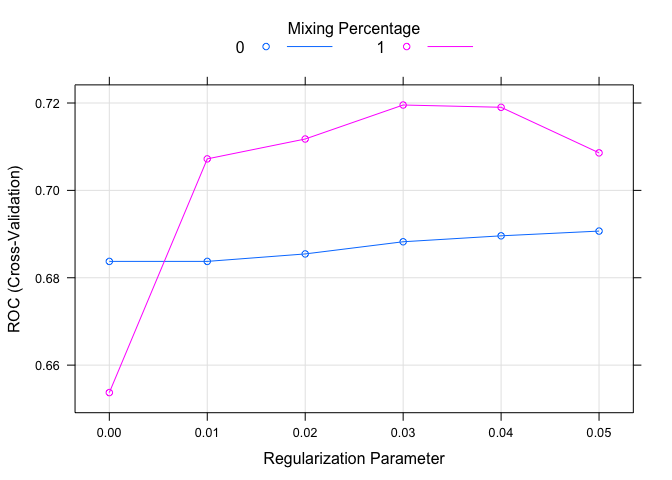
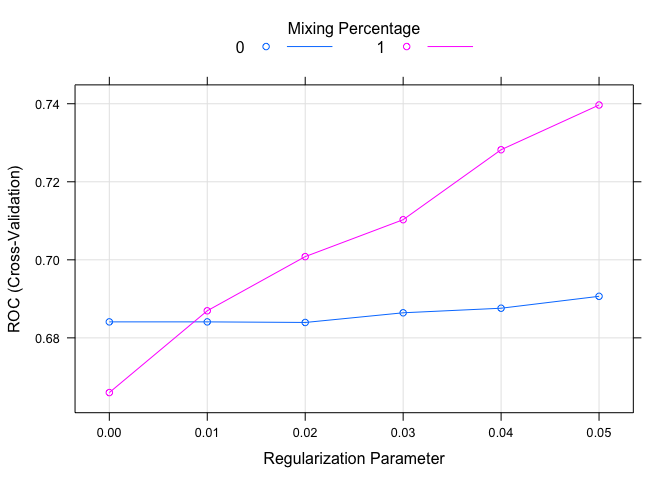
6-25

diff --git a/README.md b/README.md
@@ -39,7 +39,7 @@ library(data.table)
 
 ``` r
 rm(list = ls())
-setwd('~/super_heroes')
+setwd('~/marvel_or_dc')
 
 hero_info = read.csv('heroes_information.csv') %>% 
   mutate(Publisher = factor(Publisher),
@@ -78,6 +78,13 @@ mycontrol = trainControl(method = 'cv',
                          classProbs = T,
                          summaryFunction = twoClassSummary,
                          verboseIter = TRUE)
+
+training_indices = createDataPartition(y = marvel_dc$Publisher,
+                                       p = .7,
+                                       list = FALSE)
+
+training = marvel_dc[training_indices,]
+testing = marvel_dc[-training_indices,]
 ```
 
 Generalized Linear Model
@@ -89,7 +96,7 @@ Ridge regression is the best performing model (alpha = 1) with a lambda value of
 
 ``` r
 glmnet_model = train(Publisher ~ .,
-                     marvel_dc %>% select(-name),
+                     training %>% select(-name),
                      method = 'glmnet',
                      trControl = mycontrol,
                      tuneGrid = expand.grid(alpha = 0:1, 
@@ -141,7 +148,7 @@ glmnet_model = train(Publisher ~ .,
     ## - Fold10: alpha=1, lambda=0.05 
     ## Aggregating results
     ## Selecting tuning parameters
-    ## Fitting alpha = 1, lambda = 0.03 on full training set
+    ## Fitting alpha = 1, lambda = 0.05 on full training set
 
 ``` r
 plot(glmnet_model)
@@ -154,45 +161,45 @@ Testing the Results of the Model
 
 Our model tends to err on the side of predicting a super hero to belong to Marvel comics over DC comics.
 
--   Sensitivity - 29% - percent of DC super heroes correctly predicted to be DC comics
+-   Sensitivity - 31% - percent of DC super heroes correctly predicted to be DC comics
 
--   Specificity - 96% - percent of Marvel super heroes correctly predicted to belong to Marvel Comics
+-   Specificity - 93% - percent of Marvel super heroes correctly predicted to belong to Marvel Comics
 
--   Pos Pred value - 82% - percent of predicted DC super heroes that actually belonged to DC
+-   Pos Pred value - 72% - percent of predicted DC super heroes that actually belonged to DC
 
 -   Neg Pred Value - 70% - percent of predicted marvel heroes that actually belonged to Marvel.
 
-If our model predicts that a given super hero belongs to DC comics, there's a pretty good likely hood that it is actually the case.
+Model often misclassifies heroes as belonging to the Marvel universe when they are DC. In the case where a hero is predicted to be a DC super hero, that is most often the case.
 
-If our model predicts that a super hero belongs to Marvel, there is a higher chance of misclassification error.
+This tells us that there are some super powers which are more exclusive to the DC universise whereas the ones mostly found in the Marvel universe can be found in DC's as well.
 
 ``` r
-confusionMatrix(predict(glmnet_model, marvel_dc), marvel_dc$Publisher)
+confusionMatrix(predict(glmnet_model, testing), testing$Publisher)
 ```
 
     ## Confusion Matrix and Statistics
     ## 
     ##           Reference
-    ## Prediction  dc marvel
-    ##     dc      69     12
-    ##     marvel 126    326
+    ## Prediction dc marvel
+    ##     dc      9      8
+    ##     marvel 49     93
     ##                                           
-    ##                Accuracy : 0.7411          
-    ##                  95% CI : (0.7017, 0.7778)
-    ##     No Information Rate : 0.6341          
-    ##     P-Value [Acc > NIR] : 9.479e-08       
+    ##                Accuracy : 0.6415          
+    ##                  95% CI : (0.5617, 0.7159)
+    ##     No Information Rate : 0.6352          
+    ##     P-Value [Acc > NIR] : 0.4701          
     ##                                           
-    ##                   Kappa : 0.3633          
-    ##  Mcnemar's Test P-Value : < 2.2e-16       
+    ##                   Kappa : 0.0894          
+    ##  Mcnemar's Test P-Value : 1.17e-07        
     ##                                           
-    ##             Sensitivity : 0.3538          
-    ##             Specificity : 0.9645          
-    ##          Pos Pred Value : 0.8519          
-    ##          Neg Pred Value : 0.7212          
-    ##              Prevalence : 0.3659          
-    ##          Detection Rate : 0.1295          
-    ##    Detection Prevalence : 0.1520          
-    ##       Balanced Accuracy : 0.6592          
+    ##             Sensitivity : 0.1552          
+    ##             Specificity : 0.9208          
+    ##          Pos Pred Value : 0.5294          
+    ##          Neg Pred Value : 0.6549          
+    ##              Prevalence : 0.3648          
+    ##          Detection Rate : 0.0566          
+    ##    Detection Prevalence : 0.1069          
+    ##       Balanced Accuracy : 0.5380          
     ##                                           
     ##        'Positive' Class : dc              
     ##
